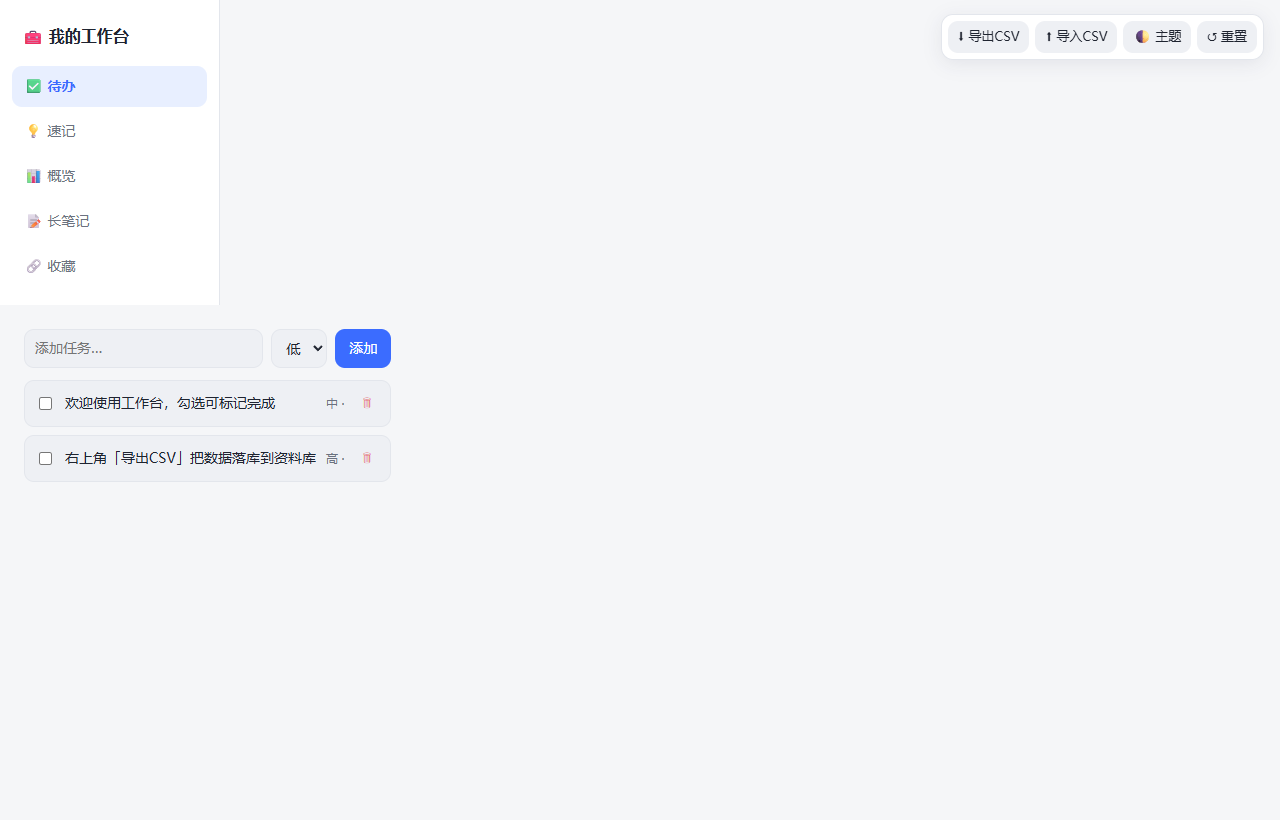
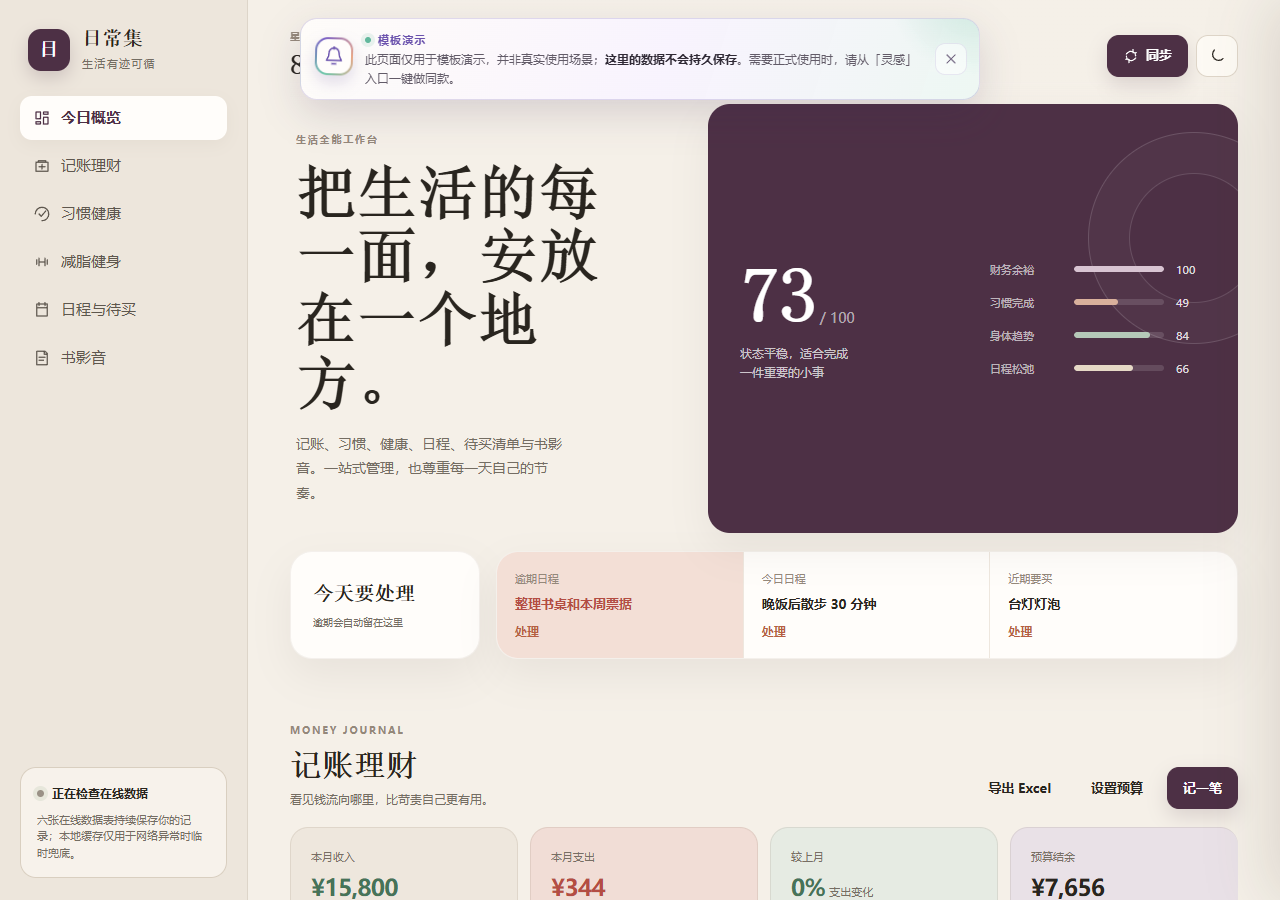
docs: 改用官方示例工作台（生活工作台）做截图与 GIF
- examples/preview.png：官方「生活工作台」首屏
- examples/demo.gif：官方工作台自上而下滚动浏览（10 帧）
- examples/usage-example.md：以官方工作台为示例重写说明
- README.md：GIF 说明改为官方示例工作台

diff --git a/examples/usage-example.md b/examples/usage-example.md
@@ -1,81 +1,41 @@
-# 工作台使用示例
+# 工作台使用示例（官方示例）
 
-下面以**侧边栏模板（sidebar）**为例，演示工作台的默认界面与核心交互。
+下面以 WorkBuddy 资料库官方的 **「生活工作台」**（生活全能）为例，展示一个真实、精致的工作台长什么样。
 
-> 静态预览
+> 静态预览（首屏）
 
-![我的工作台 - 侧边栏模板](preview.png)
+![生活工作台 - 首屏](preview.png)
 
-> 动态演示：4 套 UI 模板 + 深色主题切换
+> 动态演示：自上而下滚动浏览完整工作台
 
-![工作台动态演示](demo.gif)
+![生活工作台动态演示](demo.gif)
 
-## 一分钟上手
+## 这个工作台包含什么
 
-1. **直接打开种子文件**
-   用浏览器双击打开 `examples/reference-workbench.html`：
+官方「生活工作台」把生活的多个面整合在一处：
 
-   ```bash
-   # macOS / Linux
-   open examples/reference-workbench.html
+- **今日概览** —— 当日状态、财务余裕、习惯完成度等一眼可览的仪表
+- **记账理财** —— 收支记录与财务余裕指标
+- **习惯健康 / 减脂健身** —— 习惯打卡与身体数据追踪
+- **日程与待买** —— 日程安排与待购清单
+- **书影音** —— 读书 / 影视 / 音乐收藏
 
-   # Windows
-   start examples/reference-workbench.html
-   ```
+数据以「在线数据表」持续保存（资料库 CSV 节点），本地缓存仅用于网络异常时临时兜底——这正是本 skill 的存储设计理念：**资料库为权威源，本地 HTML 只是视图 + 运行时编辑层**。
 
-   该文件是**零依赖、单文件、可离线**的 HTML，不依赖任何 CDN 或后端。
+## 想搭一个自己的工作台？
 
-2. **切换模块 / 模板 / 主题**
-   编辑文件顶部的 `WORKBENCH_CONFIG`：
+「生活工作台」是官方用本 skill 同款能力搭出来的范例。你可以用本仓库自带的能力，快速生成属于自己（或团队）的工作台：
 
-   ```js
-   const WORKBENCH_CONFIG = {
-     title: "我的工作台",
-     ui: "sidebar",      // 可换：cardGrid / topnav / masonry
-     theme: "auto",      // 可换：light / dark / auto
-     accent: "#3b6cff",
-     modules: ["todo", "mem", "dashboard", "notes", "links"]
-   };
-   ```
-
-   - `modules`：从 `references/module-catalog.md` 的 14 个模块中按需勾选。
-   - `ui`：4 套布局任意切换。
-   - `theme`：`light`、`dark` 或跟随系统的 `auto`。
-
-3. **运行时操作**
-   - 在任意模块里**新增 / 删除 / 编辑**记录，数据自动保存在浏览器 `localStorage`。
-   - 点击右上角「**主题**」可在深/浅色之间切换。
-   - 点击「**导出 CSV**」会按模块生成对应的 CSV 文件（列名 = 模块 `schema`），这些 CSV 可直接导入 WorkBuddy 资料库。
-   - 点击「**重置**」会把当前模块恢复为示例数据。
-
-4. **把数据落到资料库（交付终态）**
-   推荐使用编排脚本：
+1. 打开种子文件 `examples/reference-workbench.html`，按需要修改顶部的 `WORKBENCH_CONFIG`：
+   - `modules`：从 `references/module-catalog.md` 的 14 个模块中勾选
+   - `ui`：切换 `sidebar` / `cardGrid` / `topnav` / `masonry` 四套模板
+   - `theme`：选择 `light` / `dark` / `auto`
+2. 在浏览器里即可直接交互（新增 / 删除 / 编辑、导出 CSV、切换主题）。
+3. 运行编排脚本，把数据落到资料库「我的文档」并生成在线 page：
 
    ```bash
    cd workbench-builder
-   # 在 WorkBuddy client 模式下，先通过 connect_open_platform 拿到 token
-   # 然后注入 WB_TOKEN 并运行：
    WB_TOKEN="<your-token>" python assets/deploy/deploy_to_library.py
    ```
 
-   该脚本会：
-   - 读取 `assets/deploy/manifest.json` 中各模块的 schema 与 seed；
-   - 在资料库「我的文档」创建对应的 CSV(database) 节点；
-   - 把单文件 HTML 上传为资料库「我的文档」的在线 page 节点；
-   - 返回 page 链接与每个 database_id。
-
-   详细流程见 [`SKILL.md`](../SKILL.md) 第 4 步。
-
-## 界面说明
-
-- **左侧导航**（sidebar）：列出所有已启用模块，点击切换主面板。
-- **工具栏**（右上角）：导出 CSV / 导入 CSV / 切换主题 / 重置。
-- **模块卡片**（cardGrid / masonry）：同时展示多个模块，适合概览与展示墙。
-- **顶部标签**（topnav）：简洁的横向标签页，适合模块较少的场景。
-
-## 从示例到真实工作台
-
-1. 把默认的 `modules` 换成你需要的组合；
-2. 把示例 `seed` 替换成你的真实 CSV 数据（见 `references/module-catalog.md` 的字段映射）；
-3. 选好 `ui` 和 `theme`；
-4. 运行 `deploy_to_library.py`，拿到资料库链接，即为最终交付物。
+完整流程见 [`SKILL.md`](../SKILL.md)。

diff --git a/README.md b/README.md
@@ -9,9 +9,9 @@
 
 把用户的零散数据（待办、记忆、指标、笔记、链接、看板、账本、习惯……）聚合为一个**零依赖、单文件、可离线、可分享**的 HTML 工作台，并把所有持久化数据落到 WorkBuddy **资料库**的 CSV(database) 节点里。
 
-![工作台动态演示](examples/demo.gif)
+![工作台动态演示（官方示例 · 生活工作台）](examples/demo.gif)
 
-> 上图演示了 4 套 UI 模板（sidebar / cardGrid / topnav / masonry）与深色主题切换。更多截图与分步说明见 [`examples/usage-example.md`](./examples/usage-example.md)。
+> 演示动画来自 WorkBuddy 资料库官方示例工作台「生活工作台」（生活全能），自上而下滚动浏览。更多说明见 [`examples/usage-example.md`](./examples/usage-example.md)。
 
 ---
 
